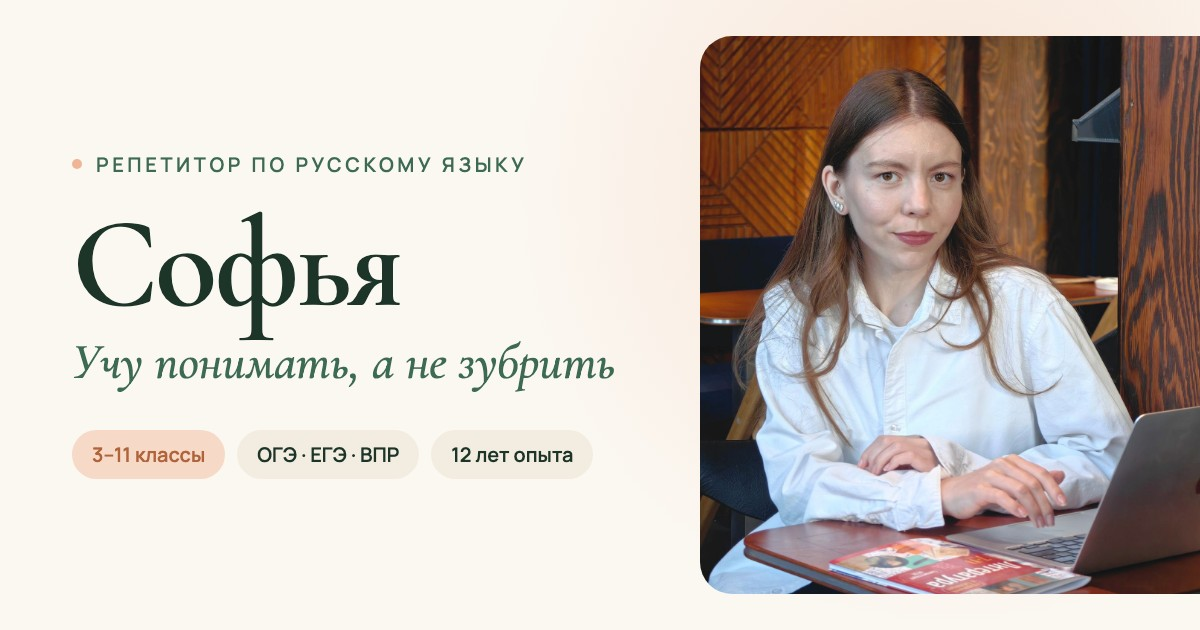
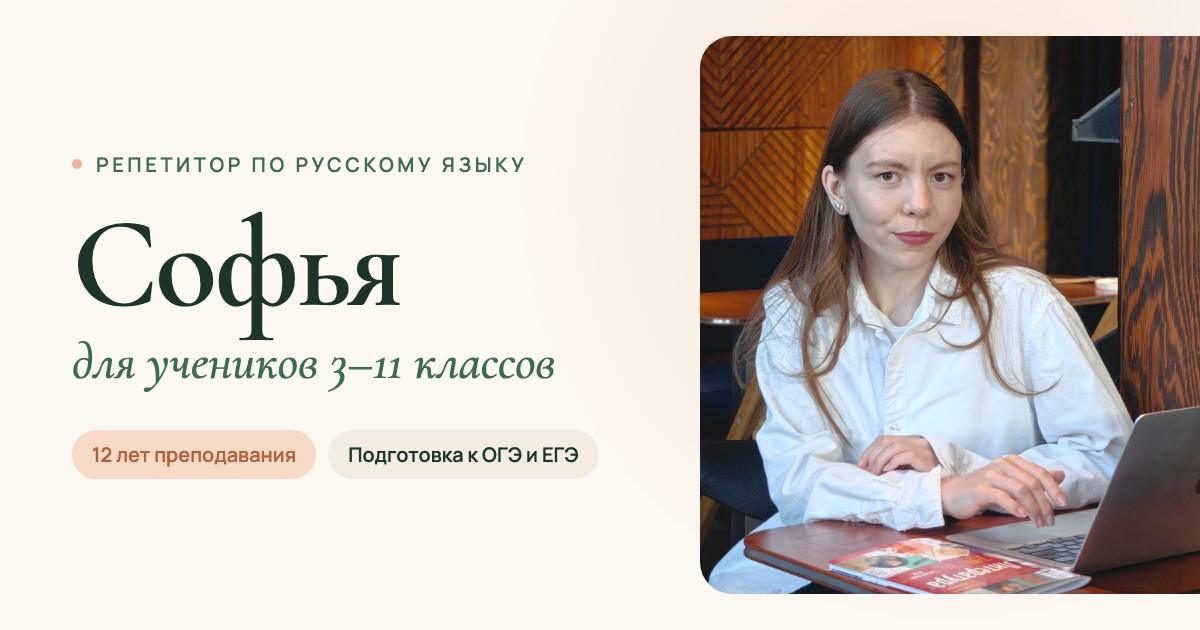
Use Sofya's own wording for the site text
Text follows her block-by-block copy: name-first hero, her section titles, her advantages and FAQ verbatim. Drops lines taken from the questionnaire (trial/duration/format rows, intro paragraphs, quote, score strip).

Changed region(s): [[0.0617, 0.6635, 0.4933, 0.7841], [0.0617, 0.5429, 0.5242, 0.6333]]

diff --git a/index.html b/index.html
@@ -148,19 +148,13 @@
       padding-right: calc(var(--photo-w) - (100vw - min(1200px, 100vw - 2 * var(--gutter))) / 2 + clamp(48px, 5vw, 88px));
     }
   }
-  .eyebrow {
-    display: inline-flex; align-items: center; gap: 12px;
-    font: 600 12.5px/1.3 var(--sans); letter-spacing: .18em; text-transform: uppercase; color: var(--green-3);
-  }
-  .eyebrow::before { content: ""; width: 8px; height: 8px; border-radius: 50%; background: var(--peach); flex: none; }
-  .hero__title {
-    margin-top: 22px;
-    font: 600 clamp(50px, 7.2vw, 100px)/.98 var(--serif); letter-spacing: -.02em;
-  }
+  .hero__title { font: 600 clamp(76px, 10vw, 148px)/.95 var(--serif); letter-spacing: -.025em; }
   .hero__title .line { display: block; overflow: hidden; padding-bottom: .14em; margin-bottom: -.14em; }
   .hero__title .line > span { display: inline-block; }
   .hero__title em { font-style: italic; font-weight: 500; color: var(--green-3); }
-  .hero__lead { margin-top: 26px; max-width: 31em; font-size: clamp(17px, 1.45vw, 19.5px); color: var(--ink-2); text-wrap: pretty; }
+  .hero__sub { margin-top: 16px; max-width: 17em; font: italic 500 clamp(25px, 2.6vw, 36px)/1.2 var(--serif); color: var(--green-3); text-wrap: balance; }
+  .hero__facts { list-style: none; padding: 0; margin-top: 26px; display: flex; flex-wrap: wrap; gap: 10px; }
+  .hero__facts li { padding: 11px 18px; border-radius: 999px; background: var(--paper); font-size: 15px; font-weight: 600; }
   .hero__cta { display: flex; flex-wrap: wrap; gap: 12px; margin-top: 34px; }
 
   .js .hero__title .line > span { transform: translateY(108%); transition: transform 1.15s var(--ease); }
@@ -191,16 +185,6 @@
     .portrait { position: absolute; top: calc(var(--header) + 8px); right: 0; bottom: clamp(28px, 3vw, 48px); width: var(--photo-w); margin: 0; }
     .portrait__frame { aspect-ratio: auto; border-radius: clamp(28px, 3vw, 44px) 0 0 clamp(28px, 3vw, 44px); }
   }
-  .portrait__badge {
-    position: absolute; left: 14px; bottom: 28px;
-    display: flex; align-items: center; gap: 14px; padding: 15px 20px 15px 18px; border-radius: 18px;
-    background: rgba(251, 248, 242, .94); -webkit-backdrop-filter: blur(8px); backdrop-filter: blur(8px);
-    box-shadow: 0 24px 48px -24px rgba(29, 52, 40, .45), 0 0 0 1px var(--line);
-  }
-  .portrait__badge b { font: 600 40px/1 var(--serif); letter-spacing: -.01em; color: var(--green-3); white-space: nowrap; }
-  .portrait__badge span { font-size: 13px; line-height: 1.35; color: var(--ink-2); }
-  .portrait__badge { left: var(--gutter); bottom: 20px; }
-  @media (min-width: 1100px) { .portrait__badge { left: -40px; bottom: 56px; } }
 
   /* ───── sections ───── */
   .section { position: relative; padding: clamp(76px, 10vw, 140px) 0; }
@@ -235,17 +219,12 @@
   .price__value b { font: 600 clamp(64px, 8vw, 96px)/.9 var(--serif); letter-spacing: -.02em; white-space: nowrap; }
   .price__value .rub { font-family: var(--sans); font-weight: 500; font-size: .6em; margin-left: .08em; }
   .price__value small { font-size: 17px; font-weight: 500; color: var(--ink-2); }
-  .price__rows { margin-top: 28px; border-top: 1px solid var(--line); }
-  .price__row { display: grid; grid-template-columns: 132px 1fr; gap: 16px; padding: 15px 0; border-bottom: 1px solid var(--line); font-size: 15.5px; line-height: 1.5; }
-  .price__row dt { color: var(--ink-2); font-weight: 500; }
-  .price__row dd { margin: 0; }
+  .price__note { margin-top: 26px; padding-top: 20px; border-top: 1px solid var(--line); font-size: 16px; color: var(--ink-2); }
   .price .btn { width: 100%; justify-content: center; margin-top: 28px; }
-  @media (max-width: 520px) { .price__row { grid-template-columns: 1fr; gap: 2px; } }
 
   /* about */
   .about { display: grid; gap: clamp(36px, 6vw, 96px); margin-top: clamp(40px, 5vw, 64px); }
   .about__photo { margin: 0; width: min(100%, 440px); }
-  .about__photo .quote { margin-top: 28px; font-size: clamp(21px, 1.9vw, 26px); }
   .about__photo img { width: 100%; height: auto; aspect-ratio: 4 / 5; object-fit: cover; border-radius: clamp(20px, 2.4vw, 28px); background: var(--paper); }
   .about__body { display: grid; gap: clamp(36px, 4vw, 52px); }
   .about__sub { font: 600 clamp(25px, 2.3vw, 30px)/1.15 var(--serif); }
@@ -254,16 +233,11 @@
   .points li:first-child { border-top: 1px solid var(--line); margin-top: 14px; }
   .points b { color: var(--ink); font-weight: 600; }
   .points .check { margin-top: -2px; }
-  .about .dotlist { margin-top: 22px; }
-  .about__note { display: flex; align-items: center; gap: 14px; font-size: 16px; color: var(--ink-2); }
-  .about__note::before { content: ""; width: 8px; height: 8px; border-radius: 50%; background: var(--peach); flex: none; }
+  .about .dotlist { margin-top: 0; }
   @media (min-width: 960px) {
     .about { grid-template-columns: 5fr 7fr; align-items: start; }
     .about__photo { position: sticky; top: calc(var(--header) + 32px); width: 100%; }
   }
-  .about__text p { max-width: 34em; font-size: clamp(17px, 1.4vw, 19px); color: var(--ink-2); text-wrap: pretty; }
-  .about__text p + p { margin-top: 16px; }
-  .quote { margin-top: 36px; padding-left: 24px; border-left: 2px solid var(--peach); font: italic 500 clamp(23px, 2.3vw, 30px)/1.28 var(--serif); color: var(--ink); text-wrap: balance; }
   .stats { display: grid; grid-template-columns: repeat(3, 1fr); border-top: 1px solid var(--line); border-bottom: 1px solid var(--line); }
   .stat { padding: 24px 12px 24px 0; }
   .stat + .stat { padding-left: clamp(12px, 2vw, 24px); border-left: 1px solid var(--line); }
@@ -275,17 +249,8 @@
   .dotlist b { font-weight: 600; }
   .dotlist span { color: var(--ink-2); }
 
-  /* results + reviews */
-  .results { display: grid; gap: 28px 64px; margin-top: clamp(40px, 5vw, 64px); align-items: end; }
-  @media (min-width: 960px) { .results { grid-template-columns: auto 1fr; } }
-  .results__nums { display: flex; flex-wrap: wrap; gap: 0 clamp(18px, 3vw, 44px); }
-  .results__num { font: 600 clamp(50px, 9vw, 124px)/.92 var(--serif); letter-spacing: -.025em; color: var(--green-3); font-variant-numeric: lining-nums; }
-  .results__num:last-child { color: var(--peach-ink); }
-  .results__cap { max-width: 26em; padding-bottom: 12px; font-size: 16.5px; color: var(--ink-2); }
-  .results__cap b { color: var(--ink); font-weight: 600; }
-
-  .carousel { margin-top: clamp(56px, 7vw, 96px); }
-  .carousel__title { font: 600 clamp(26px, 2.6vw, 34px)/1.1 var(--serif); }
+  /* reviews */
+  .carousel { margin-top: clamp(28px, 3.5vw, 48px); }
   .carousel__track {
     display: grid; grid-auto-flow: column; grid-auto-columns: min(76vw, 320px); gap: 20px;
     margin-top: 28px; margin-right: calc(50% - 50vw); padding: 4px calc(50vw - 50%) 6px 4px; margin-left: -4px;
@@ -410,7 +375,6 @@
   .contact { display: grid; gap: 40px; padding: clamp(28px, 5vw, 64px); border-radius: clamp(24px, 3vw, 36px); background: var(--paper); }
   @media (min-width: 960px) { .contact { grid-template-columns: 1fr 1fr; align-items: center; gap: 64px; } }
   .contact .h2 { margin-top: 16px; }
-  .contact__hours { margin-top: 24px; font-size: 15px; color: var(--ink-2); }
   .links { display: grid; gap: 12px; }
   .link {
     display: flex; align-items: center; justify-content: space-between; gap: 16px;
@@ -508,12 +472,12 @@
   <section class="hero" aria-label="Знакомство">
     <div class="container hero__grid">
       <div class="hero__intro">
-        <p class="eyebrow" data-reveal><span>Репетитор по&nbsp;русскому языку · <span style="white-space:nowrap">3–11&nbsp;классы</span></span></p>
-        <h1 class="hero__title">
-          <span class="line"><span>Учу понимать,</span></span>
-          <span class="line"><span><em>а&nbsp;не&nbsp;зубрить</em></span></span>
-        </h1>
-        <p class="hero__lead" data-reveal style="--i:2">Здравствуйте, я&nbsp;Софья. Преподаю русский язык 12&nbsp;лет: готовлю к&nbsp;ОГЭ, ЕГЭ и&nbsp;ВПР, помогаю закрыть пробелы и&nbsp;разобраться со&nbsp;школьной программой.</p>
+        <h1 class="hero__title"><span class="line"><span>Софья</span></span></h1>
+        <p class="hero__sub" data-reveal style="--i:1">Репетитор по&nbsp;русскому языку для учеников 3–11&nbsp;классов</p>
+        <ul class="hero__facts" data-reveal style="--i:2">
+          <li>12&nbsp;лет преподавания</li>
+          <li>Подготовка к&nbsp;ОГЭ и&nbsp;ЕГЭ</li>
+        </ul>
         <div class="hero__cta" data-reveal style="--i:3">
           <a class="btn" href="#contacts">Записаться на&nbsp;занятие <svg class="i"><use href="#i-arrow"/></svg></a>
           <a class="btn btn--ghost" href="video/sonya-16x9.mp4" data-video-open><svg class="i"><use href="#i-play"/></svg>Видео за&nbsp;50&nbsp;секунд</a>
@@ -524,10 +488,6 @@
         <div class="portrait__frame">
           <img src="photo.jpg" alt="Софья, репетитор по русскому языку, за ноутбуком" width="1600" height="1500" fetchpriority="high">
         </div>
-        <figcaption class="portrait__badge">
-          <b>91–97</b>
-          <span>баллов на&nbsp;ЕГЭ —<br>результаты моих учеников</span>
-        </figcaption>
       </figure>
 
       <nav class="toc hero__toc" aria-label="Оглавление" data-reveal style="--i:4">
@@ -549,9 +509,9 @@
       <div class="services">
         <div>
           <div data-reveal>
-            <p class="label"><span class="label__num">01</span>Услуги и&nbsp;цены</p>
-            <h2 class="h2">С&nbsp;чем я&nbsp;помогаю</h2>
-            <p class="lead">Работаю с&nbsp;учениками 3–11&nbsp;классов&nbsp;— от&nbsp;школьной программы до&nbsp;экзаменов.</p>
+            <p class="label"><span class="label__num">01</span></p>
+            <h2 class="h2">Услуги и&nbsp;цены</h2>
+            <p class="lead">Работаю с&nbsp;учениками 3–11&nbsp;классов</p>
           </div>
           <ul class="checklist">
             <li data-reveal><span class="check"><svg class="i"><use href="#i-check"/></svg></span>Подготовка к&nbsp;ОГЭ, ЕГЭ и&nbsp;ВПР</li>
@@ -561,59 +521,46 @@
           </ul>
         </div>
         <div class="price" data-reveal style="--i:1">
-          <p class="price__label">Стоимость занятия</p>
-          <p class="price__value"><b>3&nbsp;000<span class="rub">₽</span></b><small>за&nbsp;60 минут</small></p>
-          <dl class="price__rows">
-            <div class="price__row"><dt>Оплата</dt><dd>По&nbsp;факту проведённого занятия&nbsp;— на&nbsp;карту или наличными при очных занятиях</dd></div>
-            <div class="price__row"><dt>Длительность</dt><dd>60&nbsp;минут, при необходимости&nbsp;— 90&nbsp;минут или 2&nbsp;часа</dd></div>
-            <div class="price__row"><dt>Пробное</dt><dd>30&nbsp;минут, платное&nbsp;— чтобы понять, подходит ли вам мой формат</dd></div>
-            <div class="price__row"><dt>Формат</dt><dd>Онлайн из&nbsp;любого города. Очно&nbsp;— Мякинино, Строгино, Красногорск</dd></div>
-          </dl>
+          <p class="price__label">Стоимость</p>
+          <p class="price__value"><b>3&nbsp;000<span class="rub">₽</span></b><small>/ 60&nbsp;минут</small></p>
+          <p class="price__note">Оплата по&nbsp;факту проведённого занятия</p>
           <a class="btn" href="#contacts">Записаться на&nbsp;занятие <svg class="i"><use href="#i-arrow"/></svg></a>
         </div>
       </div>
     </div>
   </section>
 
-  <!-- ───── 3. Обо мне (опыт + подход) ───── -->
+  <!-- ───── 3. Обо мне (+ мои преимущества) ───── -->
   <section class="section" id="about">
     <div class="container">
       <div data-reveal>
-        <p class="label"><span class="label__num">02</span>Обо мне</p>
-        <h2 class="h2">Чтобы русский перестал быть набором <em>разрозненных правил</em></h2>
+        <p class="label"><span class="label__num">02</span></p>
+        <h2 class="h2">Обо мне</h2>
       </div>
       <div class="about">
         <figure class="about__photo" data-reveal>
           <img src="about.jpg" alt="Софья со справочником по литературе" width="1500" height="1875" loading="lazy">
-          <figcaption class="quote">Мне важно объяснять не&nbsp;только «что нужно знать», но&nbsp;и&nbsp;зачем это нужно.</figcaption>
         </figure>
         <div class="about__body">
-          <div class="about__text" data-reveal>
-            <p>Преподаю русский язык с&nbsp;2014&nbsp;года. Раскладываю материал по&nbsp;полочкам, чтобы ученик понимал логику языка и&nbsp;увереннее чувствовал себя на&nbsp;контрольных и&nbsp;экзаменах.</p>
-          </div>
           <div class="stats" data-reveal>
             <div class="stat"><div class="stat__num" data-count="12">12</div><div class="stat__label">лет преподавания</div></div>
             <div class="stat"><div class="stat__num" data-count="100" data-suffix="+">100+</div><div class="stat__label">учеников</div></div>
             <div class="stat"><div class="stat__num" data-count="97" data-from="91" data-prefix="91–">91–97</div><div class="stat__label">баллов на&nbsp;ЕГЭ у&nbsp;учеников</div></div>
           </div>
+          <ul class="dotlist" data-reveal>
+            <li>Авторский курс по&nbsp;орфографии и&nbsp;пунктуации</li>
+            <li>Собственные материалы для работы на&nbsp;уроке</li>
+            <li>Пишу и&nbsp;редактирую художественные тексты</li>
+          </ul>
           <div data-reveal>
-            <h3 class="about__sub">Как я&nbsp;занимаюсь</h3>
+            <h3 class="about__sub">Мои преимущества</h3>
             <ul class="points">
               <li><span class="check"><svg class="i"><use href="#i-check"/></svg></span><div><b>Учу понимать, а&nbsp;не&nbsp;зубрить.</b> Объясняю логику правил и&nbsp;задаю наводящие вопросы, чтобы ученик учился самостоятельно находить решение.</div></li>
               <li><span class="check"><svg class="i"><use href="#i-check"/></svg></span><div><b>Без давления и&nbsp;страха ошибок.</b> Спокойно разбираем ошибки и&nbsp;возвращаемся к&nbsp;сложным темам столько, сколько нужно.</div></li>
-              <li><span class="check"><svg class="i"><use href="#i-check"/></svg></span><div><b>Системная подготовка.</b> Последовательно закрываем пробелы, закрепляем теорию и&nbsp;отрабатываем её&nbsp;на&nbsp;практике.</div></li>
+              <li><span class="check"><svg class="i"><use href="#i-check"/></svg></span><div><b>Системная подготовка.</b> Последовательно закрываем пробелы, закрепляем теорию и&nbsp;отрабатываем её.</div></li>
               <li><span class="check"><svg class="i"><use href="#i-check"/></svg></span><div><b>Гибкая система.</b> Подстраиваю объём занятий и&nbsp;формат домашних заданий под нагрузку и&nbsp;график ученика.</div></li>
             </ul>
           </div>
-          <div data-reveal>
-            <h3 class="about__sub">Свои материалы</h3>
-            <ul class="dotlist">
-              <li><b>Авторский курс по&nbsp;орфографии и&nbsp;пунктуации</b> <span>— с&nbsp;таблицами, видеоматериалами и&nbsp;разборами заданий</span></li>
-              <li><b>Презентации по&nbsp;каждому заданию ЕГЭ</b> <span>и&nbsp;собственные материалы для работы на&nbsp;уроке</span></li>
-              <li><b>Пишу и&nbsp;редактирую художественные тексты</b> <span>— поэтому особенно внимательно работаю с&nbsp;сочинениями</span></li>
-            </ul>
-          </div>
-          <p class="about__note" data-reveal>Родителям&nbsp;— обратная связь по&nbsp;результатам занятий.</p>
         </div>
       </div>
     </div>
@@ -623,18 +570,11 @@
   <section class="section section--paper" id="reviews">
     <div class="container">
       <div data-reveal>
-        <p class="label"><span class="label__num">03</span>Отзывы и&nbsp;результаты</p>
-        <h2 class="h2">Результаты учеников</h2>
-      </div>
-      <div class="results">
-        <div class="results__nums" data-reveal>
-          <span class="results__num">91</span><span class="results__num">94</span><span class="results__num">95</span><span class="results__num">96</span><span class="results__num">97</span>
-        </div>
-        <p class="results__cap" data-reveal style="--i:1">баллов на&nbsp;ЕГЭ по&nbsp;русскому языку получали мои ученики. <b>97&nbsp;баллов&nbsp;— всего одна ошибка за&nbsp;весь экзамен.</b></p>
+        <p class="label"><span class="label__num">03</span></p>
+        <h2 class="h2">Отзывы и&nbsp;результаты</h2>
       </div>
 
       <div class="carousel" data-carousel>
-        <h3 class="carousel__title" data-reveal>Отзывы</h3>
         <div class="carousel__track" data-track tabindex="0" role="region" aria-label="Отзывы учеников, листайте вбок" data-reveal style="--i:1"></div>
         <div class="carousel__controls" data-reveal style="--i:2">
           <button class="arrow" type="button" data-prev aria-label="Предыдущий отзыв"><svg class="i"><use href="#i-arrow"/></svg></button>
@@ -650,13 +590,13 @@
   <section class="section section--green" id="faq">
     <div class="container">
       <div data-reveal>
-        <p class="label"><span class="label__num">04</span>Частые вопросы</p>
+        <p class="label"><span class="label__num">04</span></p>
         <h2 class="h2">Ответы на&nbsp;частые вопросы</h2>
       </div>
       <div class="faq">
         <div class="faq__item" data-reveal>
-          <h3><button class="faq__q" type="button" aria-expanded="false" aria-controls="q1" id="q1b">Есть ли бесплатное пробное занятие?<span class="faq__icon" aria-hidden="true"></span></button></h3>
-          <div class="faq__panel" id="q1" role="region" aria-labelledby="q1b"><div><p><b>Нет</b>, но&nbsp;я&nbsp;могу провести оплачиваемое пробное занятие на&nbsp;30&nbsp;минут, чтобы понять, подходит&nbsp;ли вам мой формат.</p></div></div>
+          <h3><button class="faq__q" type="button" aria-expanded="false" aria-controls="q1" id="q1b">Есть ли бесплатное пробное?<span class="faq__icon" aria-hidden="true"></span></button></h3>
+          <div class="faq__panel" id="q1" role="region" aria-labelledby="q1b"><div><p>Нет, но&nbsp;я&nbsp;могу провести оплачиваемое пробное занятие на&nbsp;30&nbsp;минут, чтобы понять, подходит&nbsp;ли вам мой формат.</p></div></div>
         </div>
         <div class="faq__item" data-reveal>
           <h3><button class="faq__q" type="button" aria-expanded="false" aria-controls="q2" id="q2b">Вы гарантируете 90+?<span class="faq__icon" aria-hidden="true"></span></button></h3>
@@ -664,15 +604,15 @@
         </div>
         <div class="faq__item" data-reveal>
           <h3><button class="faq__q" type="button" aria-expanded="false" aria-controls="q3" id="q3b">В&nbsp;каком формате проходят занятия?<span class="faq__icon" aria-hidden="true"></span></button></h3>
-          <div class="faq__panel" id="q3" role="region" aria-labelledby="q3b"><div><p>Основной формат&nbsp;— <b>онлайн</b>. Занимаюсь с&nbsp;учениками из&nbsp;любых городов с&nbsp;10:00 до&nbsp;21:00 по&nbsp;московскому времени. Если вы&nbsp;живёте рядом с&nbsp;Мякинино, Строгино или в&nbsp;Красногорске, можем обсудить возможность очных занятий.</p></div></div>
+          <div class="faq__panel" id="q3" role="region" aria-labelledby="q3b"><div><p>Основной формат&nbsp;— онлайн. Занимаюсь с&nbsp;учениками из&nbsp;любых городов с&nbsp;10:00 до&nbsp;21:00 по&nbsp;московскому времени. Если вы&nbsp;живёте рядом с&nbsp;Мякинино, Строгино или в&nbsp;Красногорске, можем обсудить возможность очных занятий.</p></div></div>
         </div>
         <div class="faq__item" data-reveal>
           <h3><button class="faq__q" type="button" aria-expanded="false" aria-controls="q4" id="q4b">Как оплачивать занятия?<span class="faq__icon" aria-hidden="true"></span></button></h3>
-          <div class="faq__panel" id="q4" role="region" aria-labelledby="q4b"><div><p>Оплата производится <b>по&nbsp;факту проведённого занятия</b>&nbsp;— на&nbsp;карту или наличными (при очных занятиях).</p></div></div>
+          <div class="faq__panel" id="q4" role="region" aria-labelledby="q4b"><div><p>Оплата производится по&nbsp;факту проведённого занятия на&nbsp;карту или наличными (при очных занятиях).</p></div></div>
         </div>
         <div class="faq__item" data-reveal>
           <h3><button class="faq__q" type="button" aria-expanded="false" aria-controls="q5" id="q5b">Сколько нужно занятий в&nbsp;неделю?<span class="faq__icon" aria-hidden="true"></span></button></h3>
-          <div class="faq__panel" id="q5" role="region" aria-labelledby="q5b"><div><p>Обычно занимаемся <b>1–2&nbsp;раза в&nbsp;неделю</b>. Частота зависит от&nbsp;целей, исходного уровня и&nbsp;сроков подготовки. При необходимости можно увеличить нагрузку.</p></div></div>
+          <div class="faq__panel" id="q5" role="region" aria-labelledby="q5b"><div><p>Обычно занимаемся 1–2&nbsp;раза в&nbsp;неделю. Частота зависит от&nbsp;целей, исходного уровня и&nbsp;сроков подготовки. При необходимости можно увеличить нагрузку.</p></div></div>
         </div>
       </div>
     </div>
@@ -683,10 +623,9 @@
     <div class="container">
       <div class="contact" data-reveal>
         <div>
-          <p class="label"><span class="label__num">05</span>Контакты</p>
-          <h2 class="h2">Записаться <em>на&nbsp;занятие</em></h2>
-          <p class="lead">Напишите или позвоните, чтобы записаться на&nbsp;занятие.</p>
-          <p class="contact__hours">Онлайн с&nbsp;10:00 до&nbsp;21:00 по&nbsp;московскому времени</p>
+          <p class="label"><span class="label__num">05</span></p>
+          <h2 class="h2">Контакты</h2>
+          <p class="lead">Напишите или позвоните, чтобы записаться на&nbsp;занятие</p>
         </div>
         <div class="links">
           <!-- Если в Telegram есть имя пользователя, замените ссылку на https://t.me/имя -->
@@ -761,7 +700,7 @@
    ════════════════════════════════════════════════════════════════ */
 const REVIEWS = [
   {
-    type: "chat", caption: "ЕГЭ — 97 баллов", note: "Сообщение ученицы",
+    type: "chat", caption: "ЕГЭ — 97 баллов", note: "",
     name: "Ариша", who: "переписка с ученицей", original: "reviews/review-97.jpg",
     messages: [
       { date: "11 июня 2024" },
@@ -772,7 +711,7 @@ const REVIEWS = [
     ],
   },
   {
-    type: "chat", caption: "ЕГЭ — 96 баллов", note: "Сообщение ученика",
+    type: "chat", caption: "ЕГЭ — 96 баллов", note: "",
     name: "Алексей", who: "переписка с учеником", original: "reviews/review-96.jpg",
     messages: [
       { from: "me", text: "Здравствуй, Леша! Получил результаты?", time: "15:34" },
@@ -784,7 +723,7 @@ const REVIEWS = [
     ],
   },
   {
-    type: "chat", caption: "ЕГЭ — 95 баллов, сочинение 24/24", note: "Сообщение ученика",
+    type: "chat", caption: "ЕГЭ — 95 баллов, сочинение 24/24", note: "",
     name: "Максим", who: "11 класс", original: "reviews/review-95.jpg",
     messages: [
       { date: "14 июня" },
@@ -795,12 +734,12 @@ const REVIEWS = [
     ],
   },
   {
-    type: "quote", caption: "ОГЭ — крепкая четвёрка", note: "Отзыв родителя · продолжили заниматься в 10 классе",
+    type: "quote", caption: "ОГЭ — крепкая четвёрка", note: "Продолжили занятия в 10 классе",
     author: "Ирина", meta: "22 сентября 2024", original: "reviews/review-oge.jpg",
     text: "Хочу похвалить и поблагодарить Софью. Занимаемся с ней почти 2 года, сейчас сын перешел в 10 класс и мы опять занимаемся с Софьей. Благодаря этому специалисту сын сдал ОГЭ на крепкую 4 (немного не хватило до 5), очень доволен и занимается с удовольствием. Спасибо!",
   },
   {
-    type: "quote", caption: "С «3» до «4» за четверть", note: "Отзыв родителя",
+    type: "quote", caption: "С «3» до «4» за четверть", note: "",
     author: "Ольга", meta: "мама ученицы", original: "reviews/review-3-4.jpg",
     text: "Замечательный репетитор, у ребенка есть результат: раньше итоговая оценка была «3», в этой четверти уже «4». Дочери нравится заниматься, на уроках они устраняют пробелы, повторяют непонятные темы, Софья Евгеньевна учит Анастасию писать сочинения.",
   },
